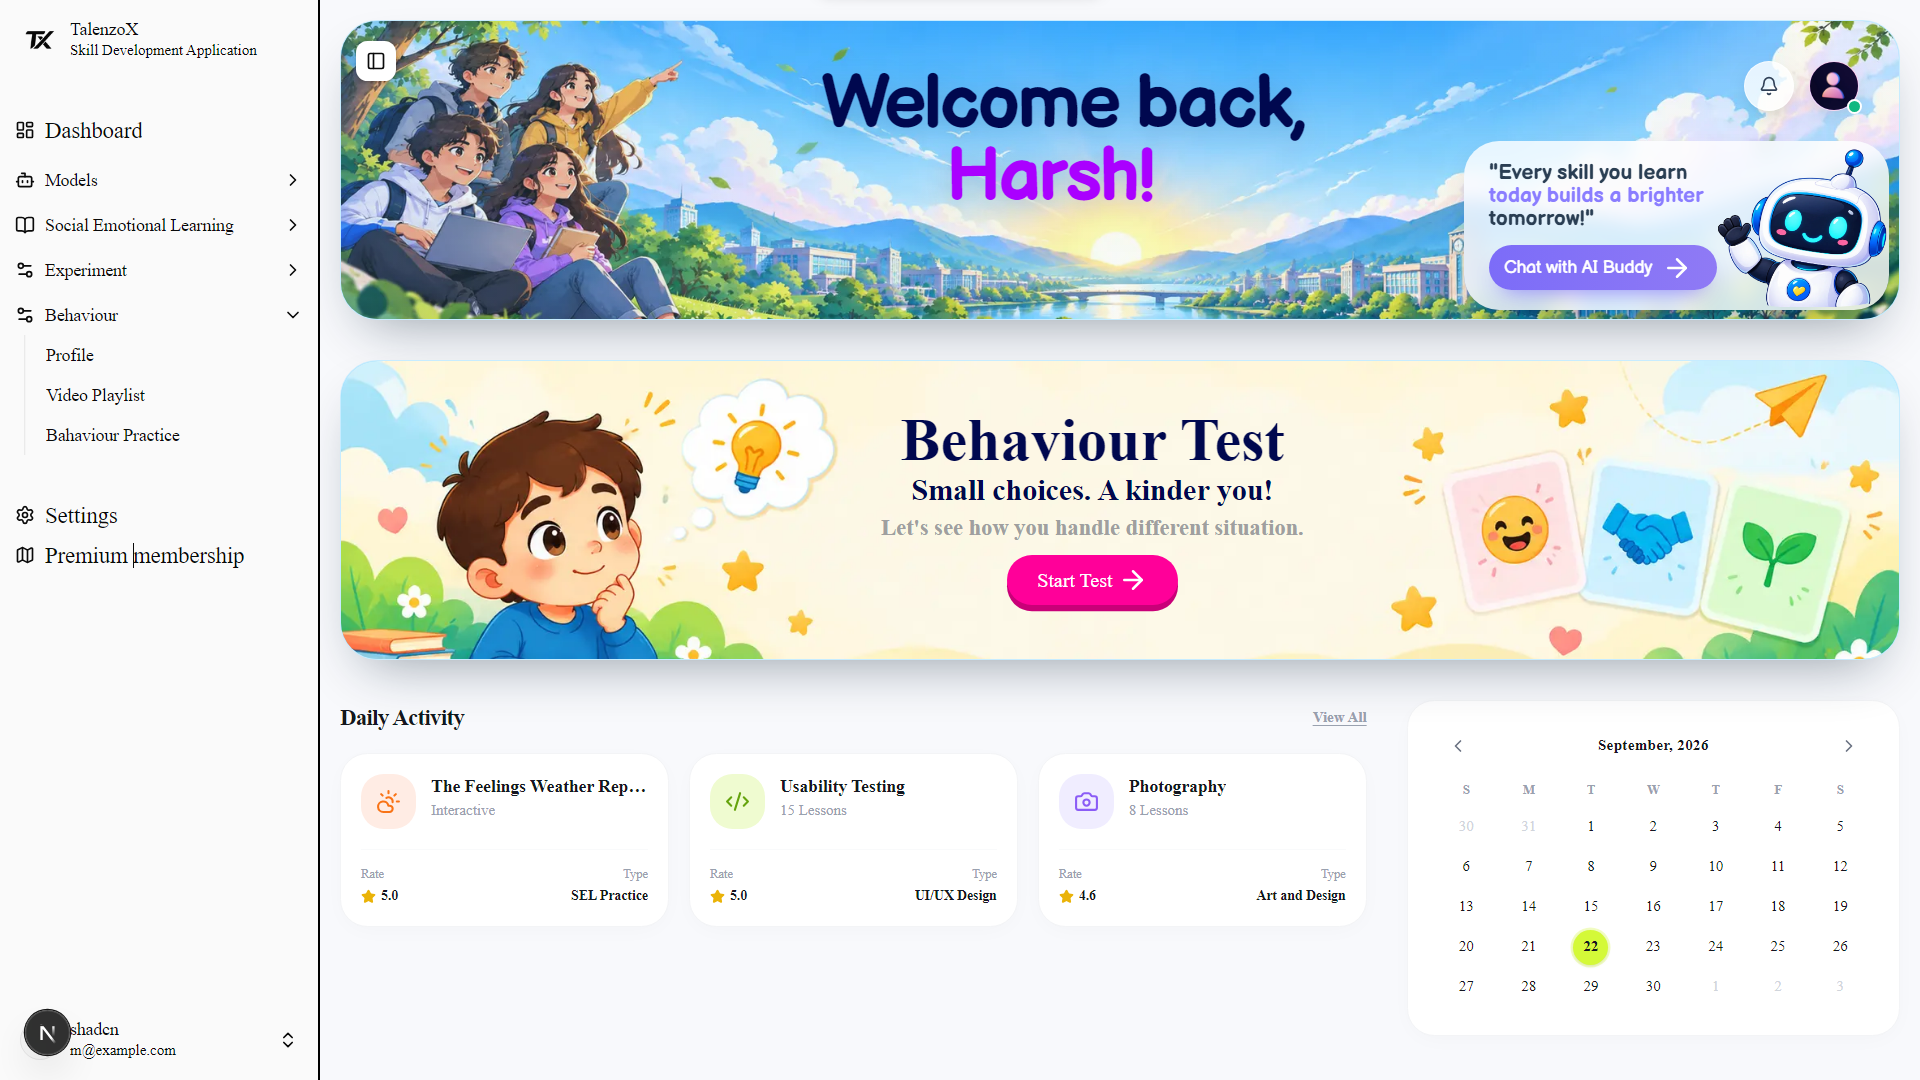
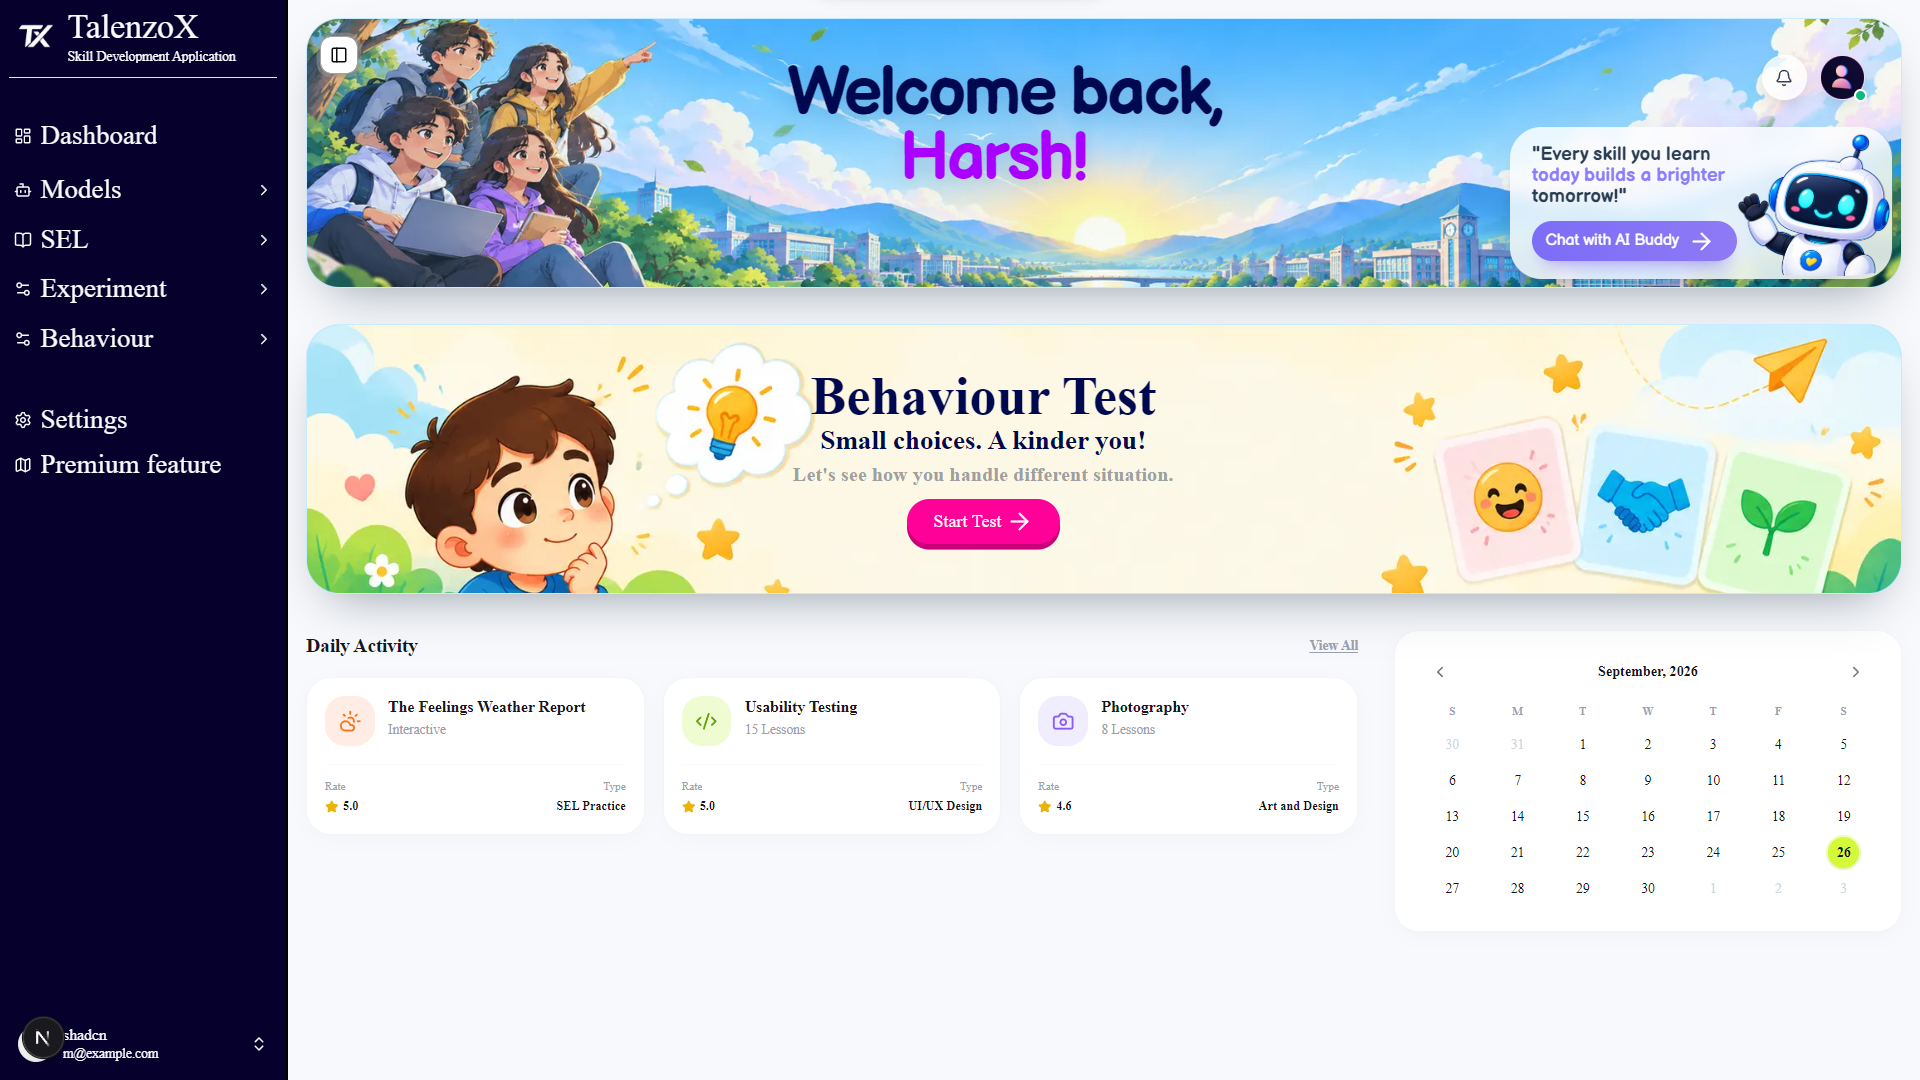
improve: Update sidebar components and styles for improved UI consistency

diff --git a/src/components/ui/sidebar.tsx b/src/components/ui/sidebar.tsx
@@ -479,12 +479,12 @@ const sidebarMenuButtonVariants = cva(
   {
     variants: {
       variant: {
-        default: "hover:bg-sidebar-accent hover:text-sidebar-accent-foreground",
+        default: "hover:bg-sidebar-accent hover:text-sidebar-accent-foreground ",
         outline:
-          "bg-background shadow-[0_0_0_1px_var(--sidebar-border)] hover:bg-sidebar-accent hover:text-sidebar-accent-foreground hover:shadow-[0_0_0_1px_var(--sidebar-accent)]",
+          "bg-background  shadow-[0_0_0_1px_var(--sidebar-border)] hover:bg-sidebar-accent hover:text-sidebar-accent-foreground hover:shadow-[0_0_0_1px_var(--sidebar-accent)]",
       },
       size: {
-        default: "h-8 text-sm",
+        default: "h-10 text-2xl ",
         sm: "h-7 text-xs",
         lg: "h-12 text-sm group-data-[collapsible=icon]:p-0!",
       },
@@ -665,13 +665,13 @@ function SidebarMenuSubItem({
 
 function SidebarMenuSubButton({
   render,
-  size = "md",
+  size = "2xl",
   isActive = false,
   className,
   ...props
 }: useRender.ComponentProps<"a"> &
   React.ComponentProps<"a"> & {
-    size?: "sm" | "md"
+    size?: "lg" | "2xl"
     isActive?: boolean
   }) {
   return useRender({
@@ -679,7 +679,7 @@ function SidebarMenuSubButton({
     props: mergeProps<"a">(
       {
         className: cn(
-          "flex h-7 min-w-0 -translate-x-px items-center gap-2 overflow-hidden rounded-md px-2 text-sidebar-foreground ring-sidebar-ring outline-hidden group-data-[collapsible=icon]:hidden hover:bg-sidebar-accent hover:text-sidebar-accent-foreground focus-visible:ring-2 active:bg-sidebar-accent active:text-sidebar-accent-foreground disabled:pointer-events-none disabled:opacity-50 aria-disabled:pointer-events-none aria-disabled:opacity-50 data-[size=md]:text-sm data-[size=sm]:text-xs data-active:bg-sidebar-accent data-active:text-sidebar-accent-foreground [&>span:last-child]:truncate [&>svg]:size-4 [&>svg]:shrink-0 [&>svg]:text-sidebar-accent-foreground",
+          "flex h-7 min-w-0 -translate-x-px items-center gap-2 overflow-hidden rounded-md px-2 text-sidebar-foreground ring-sidebar-ring outline-hidden group-data-[collapsible=icon]:hidden hover:bg-sidebar-accent hover:text-sidebar-accent-foreground focus-visible:ring-2 active:bg-sidebar-accent active:text-sidebar-accent-foreground disabled:pointer-events-none disabled:opacity-50 aria-disabled:pointer-events-none aria-disabled:opacity-50 data-[size=lg]:text-base data-[size=2xl]:text-lg data-active:bg-sidebar-accent data-active:text-sidebar-accent-foreground [&>span:last-child]:truncate [&>svg]:size-4 [&>svg]:shrink-0 [&>svg]:text-sidebar-accent-foreground",
           className
         ),
       },

diff --git a/src/app/(main)/_components/team-switcher.tsx b/src/app/(main)/_components/team-switcher.tsx
@@ -1,26 +1,26 @@
-"use client"
+"use client";
 
-import * as React from "react"
-import Link from "next/link"
+import * as React from "react";
+import Link from "next/link";
 
 import {
   SidebarMenu,
   SidebarMenuButton,
   SidebarMenuItem,
-} from "@/components/ui/sidebar"
+} from "@/components/ui/sidebar";
 
 export function TeamSwitcher({
   teams,
 }: {
   teams: {
-    name: string
-    logo: React.ReactNode
-    plan: string
-  }[]
+    name: string;
+    logo: React.ReactNode;
+    plan: string;
+  }[];
 }) {
-  const team = teams[0]
+  const team = teams[0];
   if (!team) {
-    return null
+    return null;
   }
   return (
     <SidebarMenu>
@@ -28,16 +28,22 @@ export function TeamSwitcher({
         <SidebarMenuButton
           render={<Link href="/" />}
           size="lg"
+          className="hover:bg-sidebar! hover:text-sidebar-primary-foreground!"
         >
-          <div className="flex aspect-square size-8 items-center justify-center rounded-lg bg-transparent text-sidebar-primary-foreground">
-            {team.logo}
-          </div>
-          <div className="grid flex-1 text-left text-sm leading-tight">
-            <span className="truncate font-medium">{team.name}</span>
-            <span className="truncate text-xs">{team.plan}</span>
+          <div className="flex w-full items-center justify-center gap-2">
+            <div className="flex aspect-square size-8 items-center justify-centerrounded-lg bg-transparent text-sidebar-primary-foreground">
+              {team.logo}
+            </div>
+            <div className="grid flex-1 text-left text-3xl leading-tight pl-1">
+              <span className="truncate font-medium">{team.name}</span>
+              <span className="truncate text-xs">{team.plan}</span>
+            </div>
           </div>
         </SidebarMenuButton>
+        <div className="mt-3">
+          <hr />
+        </div>
       </SidebarMenuItem>
     </SidebarMenu>
-  )
+  );
 }

diff --git a/src/app/globals.css b/src/app/globals.css
@@ -101,14 +101,14 @@
   --chart-4: oklch(0.371 0 0);
   --chart-5: oklch(0.269 0 0);
   --radius: 0.625rem;
-  --sidebar: oklch(0.985 0 0);
-  --sidebar-foreground: oklch(0.145 0 0);
-  --sidebar-primary: oklch(0.205 0 0);
-  --sidebar-primary-foreground: oklch(0.985 0 0);
-  --sidebar-accent: oklch(0.97 0 0);
-  --sidebar-accent-foreground: oklch(0.205 0 0);
-  --sidebar-border: oklch(0.922 0 0);
-  --sidebar-ring: oklch(0.708 0 0);
+  --sidebar: #06002d;
+  --sidebar-foreground: #f8fafc;
+  --sidebar-primary: #2563eb;
+  --sidebar-primary-foreground: #ffffff;
+  --sidebar-accent: #1e3a5f;
+  --sidebar-accent-foreground: #f8fafc;
+  --sidebar-border: #25415d;
+  --sidebar-ring: #60a5fa;
 }
 
 .dark {
@@ -135,14 +135,14 @@
   --chart-3: oklch(0.439 0 0);
   --chart-4: oklch(0.371 0 0);
   --chart-5: oklch(0.269 0 0);
-  --sidebar: oklch(0.205 0 0);
-  --sidebar-foreground: oklch(0.985 0 0);
-  --sidebar-primary: oklch(0.488 0.243 264.376);
-  --sidebar-primary-foreground: oklch(0.985 0 0);
-  --sidebar-accent: oklch(0.269 0 0);
-  --sidebar-accent-foreground: oklch(0.985 0 0);
-  --sidebar-border: oklch(1 0 0 / 10%);
-  --sidebar-ring: oklch(0.556 0 0);
+  --sidebar: #102a43;
+  --sidebar-foreground: #f8fafc;
+  --sidebar-primary: #2563eb;
+  --sidebar-primary-foreground: #ffffff;
+  --sidebar-accent: #1e3a5f;
+  --sidebar-accent-foreground: #f8fafc;
+  --sidebar-border: #25415d;
+  --sidebar-ring: #60a5fa;
 }
 
 @layer base {

diff --git a/src/app/(main)/_components/app-sidebar.tsx b/src/app/(main)/_components/app-sidebar.tsx
@@ -28,11 +28,11 @@ const data = {
       name: "TalenzoX",
       logo: (
         <Image
-          src="/TalenzoX_logo.png"
+          src="/TalenzoX_logo_white.png"
           alt="TalenzoX logo"
-          width={24}
-          height={24}
-          className="size-6 object-contain "
+          width={36}
+          height={36}
+          className="size-12 object-contain "
         />
       ),
       plan: "Skill Development Application",
@@ -78,13 +78,13 @@ const data = {
       ],
     },
     {
-      title: "Social Emotional Learning",
+      title: "SEL",
       url: "#",
       icon: (
         <BookOpenIcon
         />
       ),
-      isActive: true,
+      isActive: false,
       items: [
         {
           title: "Profile",
@@ -158,7 +158,7 @@ const data = {
       ),
     },
     {
-      name: "Premium membership",
+      name: "Premium feature",
       url: "#",
       icon: (
         <MapIcon

diff --git a/src/app/(teacher-main)/_components/ui/SideBar-teacher.tsx b/src/app/(teacher-main)/_components/ui/SideBar-teacher.tsx
@@ -235,15 +235,15 @@ function CollapsibleSubGroup({
 export function SidebarTeacher({ children }: { children?: ReactNode }) {
   return (
     <SidebarProvider>
-      <Sidebar className="bg-white">
+      <Sidebar className="">
         <SidebarContent>
           <div className="flex items-center gap-3 border-b px-4 py-4">
             <Image
-              src="/TalenzoX_logo.png"
+              src="/TalenzoX_logo_white.png"
               alt="TalenzoX"
               width={36}
               height={36}
-              className="h-9 w-9 object-contain"
+              className="h-9 w-9 object-contain "
             />
             <span className="text-md font-semibold leading-tight flex flex-col items-center">
               TalenzoX <div className="text-sm">Teacher Dashboard</div> 

diff --git a/src/app/(main)/_components/nav-projects.tsx b/src/app/(main)/_components/nav-projects.tsx
@@ -33,7 +33,7 @@ export function NavProjects({
       <SidebarMenu className="mt-5">
         {projects.map((item) => (
           <SidebarMenuItem key={item.name} className="text-lg">
-            <SidebarMenuButton className="text-lg" render={<a href={item.url} />}>
+            <SidebarMenuButton className="text-2xl" render={<a href={item.url} />}>
               {item.icon}
               <span>{item.name}</span>
             </SidebarMenuButton>
